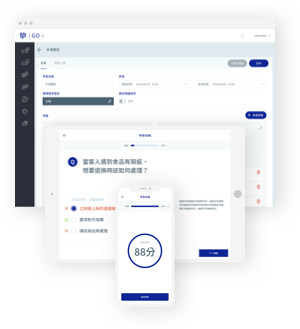
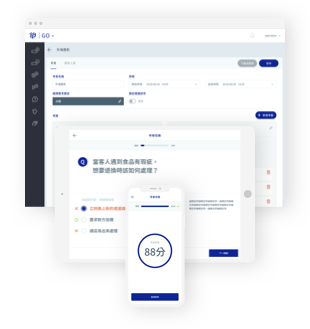
Update screenshot on teachor.html.

diff --git a/jp/teachor.html b/jp/teachor.html
@@ -162,6 +162,13 @@
           <span class="teachor_feature_title">オンラインテスト</span>
         </h4>
         <figure class="mx-auto mb-4 mb-md-5 teachor_feature_figure-3layers" data-aos="zoom-in">
+          <div style="margin-left:-5%; margin-right:-7%">
+            <img src="../images/teachor_screenshot_exam.png" class="img-fluid shadow_fix-teachor_screenshot_exam"
+                  srcset="../images/teachor_screenshot_exam@2x.png 1838w,
+                          ../images/teachor_screenshot_exam_s.png 310w,
+                          ../images/teachor_screenshot_exam_s@2x.png 620w">
+          </div>
+          <!--
           <div class="teachor_feature_figureimg">
             <img src="../images/teachor_screenshot_exam1.png" class="img-fluid feature_img_shadow">
           </div>
@@ -171,6 +178,7 @@
           <div class="teachor_feature_figureimg">
             <img src="../images/teachor_screenshot_exam3.png" class="img-fluid feature_img_shadow">
           </div>
+          -->
         </figure>
         <p class="desc_fonts text-center" data-aos="fade-in">
           教習効果評価、資格評価。テストは勉強状況確認だけではなく、勉強の一環になる

diff --git a/cn/teachor.html b/cn/teachor.html
@@ -162,6 +162,13 @@
           <span class="teachor_feature_title">线上考试</span>
         </h4>
         <figure class="mx-auto mb-4 mb-md-5 teachor_feature_figure-3layers" data-aos="zoom-in">
+          <div style="margin-left:-5%; margin-right:-7%">
+            <img src="../images/teachor_screenshot_exam.png" class="img-fluid shadow_fix-teachor_screenshot_exam"
+                  srcset="../images/teachor_screenshot_exam@2x.png 1838w,
+                          ../images/teachor_screenshot_exam_s.png 310w,
+                          ../images/teachor_screenshot_exam_s@2x.png 620w">
+          </div>
+          <!--
           <div class="teachor_feature_figureimg">
             <img src="../images/teachor_screenshot_exam1.png" class="img-fluid feature_img_shadow">
           </div>
@@ -171,6 +178,7 @@
           <div class="teachor_feature_figureimg">
             <img src="../images/teachor_screenshot_exam3.png" class="img-fluid feature_img_shadow">
           </div>
+          -->
         </figure>
         <p class="desc_fonts text-center" data-aos="fade-in">
           学习评估，资格评测，考试不仅是一种检查手段， 更是一种学习模式

diff --git a/teachor.html b/teachor.html
@@ -162,6 +162,13 @@
           <span class="teachor_feature_title">線上考試</span>
         </h4>
         <figure class="mx-auto mb-4 mb-md-5 teachor_feature_figure-3layers" data-aos="zoom-in">
+          <div style="margin-left:-5%; margin-right:-7%">
+            <img src="images/teachor_screenshot_exam.png" class="img-fluid shadow_fix-teachor_screenshot_exam"
+                  srcset="images/teachor_screenshot_exam@2x.png 1838w,
+                          images/teachor_screenshot_exam_s.png 310w,
+                          images/teachor_screenshot_exam_s@2x.png 620w">
+          </div>
+          <!--
           <div class="teachor_feature_figureimg">
             <img src="images/teachor_screenshot_exam1.png" class="img-fluid feature_img_shadow">
           </div>
@@ -171,6 +178,7 @@
           <div class="teachor_feature_figureimg">
             <img src="images/teachor_screenshot_exam3.png" class="img-fluid feature_img_shadow">
           </div>
+          -->
         </figure>
         <p class="desc_fonts text-center" data-aos="fade-in">
           學習評估，資格評測，考試不僅是一種檢查手段，更是一種學習模式

diff --git a/en/teachor.html b/en/teachor.html
@@ -165,6 +165,13 @@
           <span class="teachor_feature_title">Online Test</span>
         </h4>
         <figure class="mx-auto mb-4 mb-md-5 teachor_feature_figure-3layers" data-aos="zoom-in">
+          <div style="margin-left:-5%; margin-right:-7%">
+            <img src="../images/teachor_screenshot_exam.png" class="img-fluid shadow_fix-teachor_screenshot_exam"
+                  srcset="../images/teachor_screenshot_exam@2x.png 1838w,
+                          ../images/teachor_screenshot_exam_s.png 310w,
+                          ../images/teachor_screenshot_exam_s@2x.png 620w">
+          </div>
+          <!--
           <div class="teachor_feature_figureimg">
             <img src="../images/teachor_screenshot_exam1.png" class="img-fluid feature_img_shadow">
           </div>
@@ -174,6 +181,7 @@
           <div class="teachor_feature_figureimg">
             <img src="../images/teachor_screenshot_exam3.png" class="img-fluid feature_img_shadow">
           </div>
+          -->
         </figure>
         <p class="desc_fonts text-center" data-aos="fade-in">
           Learning evaluation, qualification evaluation.
